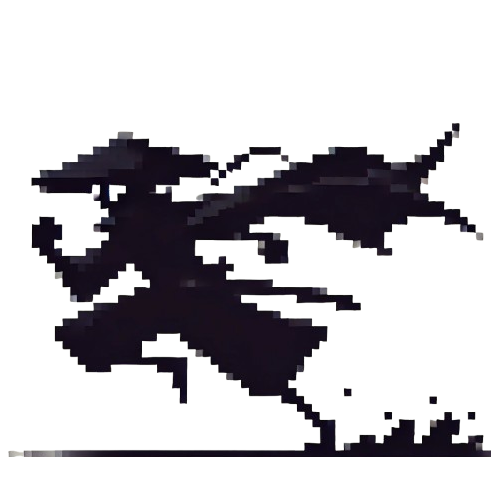
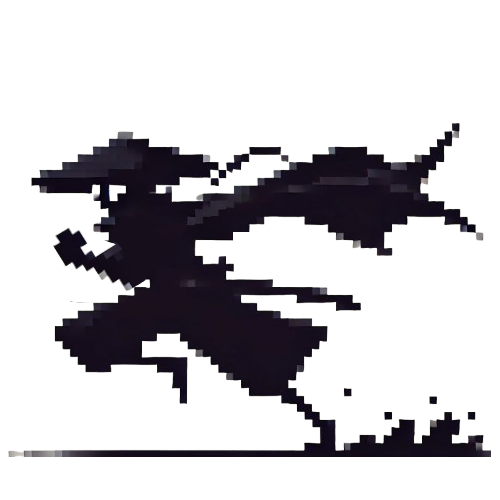
save point portail + transition des niveaux + amélioreation frame personnage 💯

Changed region(s): [[0.06, 0.42, 0.3, 0.63], [0.45, 0.45, 0.6, 0.54]]

diff --git a/ShadowTravelers/js/levels/level3.js b/ShadowTravelers/js/levels/level3.js
@@ -1,24 +1,81 @@
 import { BaseLevel } from './BaseLevel.js';
 import { Player } from '../entities/Player.js';
+import { Exit } from '../elements/Exit.js';
 
 export class Level3 extends BaseLevel {
     constructor(context, canvas) {
         super(context, canvas);
         this.player = new Player(canvas);
+        
+        this.levelTitle = "Niveau 3 - Le dernier voyage";
+    }
+
+    initialize() {
+        super.initialize();
+
+        // Créer la sortie à la fin du niveau
+        const floorY = this.canvas.height - this.floorHeight;
+        this.exit = new Exit(
+            this.levelWidth - 200,
+            floorY - 120,
+            80,
+            80
+        );
+        
+        // Ajouter des obstacles ou autres éléments spécifiques au niveau 3
+        this.obstacles.push(
+            { x: 1000, y: floorY - 130, width: 90, height: 130 },
+            { x: 2000, y: floorY - 160, width: 110, height: 160 },
+            { x: 3000, y: floorY - 140, width: 95, height: 140 }
+        );
     }
 
     update() {
-        this.player.update(this.keys, this.floorHeight);
+        super.update(); // Utilise la méthode de BaseLevel qui gère déjà la collision avec la sortie
     }
 
     draw() {
-        this.context.clearRect(0, 0, this.canvas.width, this.canvas.height);
-
-        // Dessiner le sol
-        this.context.fillStyle = 'black';
-        this.context.fillRect(0, this.canvas.height - this.floorHeight, this.canvas.width, this.floorHeight);
-
-        // Dessiner le joueur
-        this.player.draw(this.context);
+        // Appeler la méthode draw de la classe parente qui inclut maintenant l'affichage du titre
+        super.draw();
+        
+        // Ajouter tout rendu spécifique au niveau 3 ici si nécessaire
+    }
+    
+    onLevelComplete() {
+        console.log('Niveau 3 terminé ! Félicitations, vous avez terminé le jeu !');
+        
+        // Ajouter un effet visuel de "fondu" avant la transition
+        const canvas = this.canvas;
+        const context = this.context;
+        
+        // Créer un effet de fondu en noir
+        let opacity = 0;
+        const fadeEffect = setInterval(() => {
+            opacity += 0.05;
+            context.fillStyle = `rgba(0, 0, 0, ${opacity})`;
+            context.fillRect(0, 0, canvas.width, canvas.height);
+            
+            // Ajouter un message de félicitations
+            if (opacity >= 0.7) {
+                context.fillStyle = "white";
+                context.font = "bold 32px Arial";
+                context.textAlign = "center";
+                context.fillText("Félicitations !", canvas.width/2, canvas.height/2 - 30);
+                context.font = "24px Arial";
+                context.fillText("Vous avez terminé Shadow Travelers", canvas.width/2, canvas.height/2 + 20);
+            }
+            
+            if (opacity >= 1) {
+                clearInterval(fadeEffect);
+                
+                // Réinitialiser le niveau sélectionné
+                localStorage.setItem('selectedLevel', 1);
+                
+                // Rediriger vers l'écran d'accueil après un délai
+                setTimeout(() => {
+                    window.location.href = 'index.html';
+                }, 3000); // Attendre 3 secondes pour que le joueur puisse lire le message
+            }
+        }, 50);
     }
 } 

diff --git a/ShadowTravelers/js/levels/BaseLevel.js b/ShadowTravelers/js/levels/BaseLevel.js
@@ -34,6 +34,15 @@ export class BaseLevel {
 
         this.isRunning = true;
         
+        // Propriétés pour l'animation du titre
+        this.levelTitle = "Niveau";
+        this.titleY = this.canvas.height / 2; // Position initiale au centre
+        this.targetTitleY = 50; // Position finale en haut
+        this.titleAnimationDone = false;
+        this.titleAnimationStarted = false;
+        this.titleAnimationSpeed = 2; // Vitesse de l'animation
+        this.titleDisplayTime = 0; // Compteur pour retarder le début de l'animation
+        
         this.bindEvents();
     }
 
@@ -97,6 +106,9 @@ export class BaseLevel {
         if (this.player) {
             this.player.draw(this.context);
         }
+
+        // Dessiner le titre du niveau
+        this.drawLevelTitle();
     }
 
     drawGround() {
@@ -181,8 +193,6 @@ export class BaseLevel {
 
     initialize() {
         this.floorY = this.canvas.height - this.floorHeight;
-        console.log("BaseLevel initialize - Canvas:", this.canvas.width, "x", this.canvas.height);
-        console.log("Calculé floorY =", this.floorY);
         
         // Créer le joueur si nécessaire
         if (!this.player) {
@@ -199,7 +209,6 @@ export class BaseLevel {
     handleResize() {
         // Recalculer floorY
         this.floorY = this.canvas.height - this.floorHeight;
-        console.log("Resize - nouveau floorY =", this.floorY);
         
         this.updateElementPositions();
         
@@ -220,5 +229,36 @@ export class BaseLevel {
             // Maintenir la position de la sortie relative à la taille du canvas
             this.exit.y = this.canvas.height - this.floorHeight - this.exit.height;
         }
+    }
+
+    drawLevelTitle() {
+        if (!this.titleAnimationStarted) {
+            this.titleDisplayTime++;
+            if (this.titleDisplayTime > 30) {
+                this.titleAnimationStarted = true;
+            }
+        }
+        
+        if (this.titleAnimationStarted && !this.titleAnimationDone) {
+            this.titleY -= this.titleAnimationSpeed;
+            
+            if (this.titleY <= this.targetTitleY) {
+                this.titleY = this.targetTitleY;
+                this.titleAnimationDone = true;
+            }
+        }
+        
+        this.context.save();
+        
+        const fontSize = this.titleAnimationDone ? 24 : 36;
+        this.context.font = `bold ${fontSize}px Arial`;
+        
+        const textWidth = this.context.measureText(this.levelTitle).width;
+        
+        this.context.fillStyle = 'black';
+        this.context.textAlign = 'center';
+        
+        this.context.fillText(this.levelTitle, this.canvas.width / 2, this.titleY);
+        this.context.restore();
     }
 } 

diff --git a/ShadowTravelers/js/levels/level2.js b/ShadowTravelers/js/levels/level2.js
@@ -1,24 +1,70 @@
 import { BaseLevel } from './BaseLevel.js';
 import { Player } from '../entities/Player.js';
+import { Exit } from '../elements/Exit.js';
 
 export class Level2 extends BaseLevel {
     constructor(context, canvas) {
         super(context, canvas);
         this.player = new Player(canvas);
+        
+        this.levelTitle = "Niveau 2 - Le passage obscur";
+    }
+
+    initialize() {
+        super.initialize();
+
+        // Créer la sortie à la fin du niveau
+        const floorY = this.canvas.height - this.floorHeight;
+        this.exit = new Exit(
+            this.levelWidth - 200,
+            floorY - 120,
+            80,
+            80
+        );
+        
+        // Ajouter des obstacles ou autres éléments spécifiques au niveau 2
+        this.obstacles.push(
+            { x: 1200, y: floorY - 120, width: 80, height: 120 },
+            { x: 2500, y: floorY - 150, width: 100, height: 150 }
+        );
     }
 
     update() {
-        this.player.update(this.keys, this.floorHeight);
+        super.update(); // Utilise la méthode de BaseLevel qui gère déjà la collision avec la sortie
     }
 
     draw() {
-        this.context.clearRect(0, 0, this.canvas.width, this.canvas.height);
-
-        // Dessiner le sol
-        this.context.fillStyle = 'black';
-        this.context.fillRect(0, this.canvas.height - this.floorHeight, this.canvas.width, this.floorHeight);
-
-        // Dessiner le joueur
-        this.player.draw(this.context);
+        // Appeler la méthode draw de la classe parente qui inclut maintenant l'affichage du titre
+        super.draw();
+        
+        // Ajouter tout rendu spécifique au niveau 2 ici si nécessaire
+    }
+    
+    onLevelComplete() {
+        console.log('Niveau 2 terminé ! Passage au niveau suivant...');
+        
+        // Ajouter un effet visuel de "fondu" avant la transition
+        const canvas = this.canvas;
+        const context = this.context;
+        
+        // Créer un effet de fondu en noir
+        let opacity = 0;
+        const fadeEffect = setInterval(() => {
+            opacity += 0.05;
+            context.fillStyle = `rgba(0, 0, 0, ${opacity})`;
+            context.fillRect(0, 0, canvas.width, canvas.height);
+            
+            if (opacity >= 1) {
+                clearInterval(fadeEffect);
+                
+                // Stocker le niveau suivant dans localStorage
+                localStorage.setItem('selectedLevel', 3);
+                
+                // Rediriger vers le niveau 3
+                setTimeout(() => {
+                    window.location.href = 'level3.html';
+                }, 500);
+            }
+        }, 50);
     }
 } 

diff --git a/ShadowTravelers/js/elements/Exit.js b/ShadowTravelers/js/elements/Exit.js
@@ -1,10 +1,25 @@
 export class Exit {
-    constructor(x, y, width = 50, height = 50) {
+    constructor(x, y, width = 80, height = 80) {
         this.x = x;
         this.y = y;
         this.width = width;
         this.height = height;
         this.isActive = true;
+        
+        // Chargement des frames du portail
+        this.frames = [];
+        this.totalFrames = 19;
+        this.currentFrame = 0;
+        this.frameDelay = 5; // Vitesse d'animation (plus petit = plus rapide)
+        this.frameCounter = 0;
+        
+        // Préchargement de toutes les frames
+        for (let i = 1; i <= this.totalFrames; i++) {
+            const frameNumber = i.toString().padStart(2, '0'); // Format 01, 02, etc.
+            const frame = new Image();
+            frame.src = `./assets/portal/shadow/frame-${frameNumber}.gif`;
+            this.frames.push(frame);
+        }
     }
 
     draw(context, cameraX) {
@@ -12,7 +27,30 @@ export class Exit {
         
         const adjustedX = this.x - cameraX;
         
-        context.fillStyle = '#0095ff';
-        context.fillRect(adjustedX, this.y, this.width, this.height);
+        // Animation du portail
+        this.frameCounter++;
+        
+        // Changement de frame selon le délai
+        if (this.frameCounter >= this.frameDelay) {
+            this.frameCounter = 0;
+            this.currentFrame = (this.currentFrame + 1) % this.totalFrames;
+        }
+        
+        // Affichage de la frame courante
+        const currentImg = this.frames[this.currentFrame];
+        
+        if (currentImg && currentImg.complete) {
+            context.drawImage(
+                currentImg,
+                adjustedX,
+                this.y,
+                this.width,
+                this.height
+            );
+        } else {
+            // Fallback en cas de non-chargement de l'image
+            context.fillStyle = '#0095ff';
+            context.fillRect(adjustedX, this.y, this.width, this.height);
+        }
     }
 }

diff --git a/ShadowTravelers/js/levels/level1.js b/ShadowTravelers/js/levels/level1.js
@@ -10,6 +10,8 @@ export class Level1 extends BaseLevel {
         this.ghosts = [];
         this.jumpingObstacles = [];
         this.directionalObstacles = [];
+        
+        this.levelTitle = "Niveau 1 - L'éveil des ombres";
     }
 
     initialize() {
@@ -40,12 +42,7 @@ export class Level1 extends BaseLevel {
             new Ghost(this.levelWidth - 400, ghostY, "Tu as atteint la fin de ce passage obscur... *murmure* Si tu continues ta quête, arme-toi de courage. Le véritable voyage ne fait que commencer...")
         );
 
-        this.exit = new Exit(
-            this.levelWidth - 200,
-            floorY - 100,
-            50,
-            100
-        );
+        this.exit = new Exit(this.levelWidth - 200, floorY - 100,80, 80);
     }
 
     update() {
@@ -117,5 +114,28 @@ export class Level1 extends BaseLevel {
 
     onLevelComplete() {
         console.log('Niveau 1 terminé ! Passage au niveau suivant...');
+        
+        // Ajouter un effet visuel de "fondu" avant la transition
+        const canvas = this.canvas;
+        const context = this.context;
+        
+        let opacity = 0;
+        const fadeEffect = setInterval(() => {
+            opacity += 0.05;
+            context.fillStyle = `rgba(0, 0, 0, ${opacity})`;
+            context.fillRect(0, 0, canvas.width, canvas.height);
+            
+            if (opacity >= 1) {
+                clearInterval(fadeEffect);
+                
+                // Stocker le niveau suivant dans localStorage
+                localStorage.setItem('selectedLevel', 2);
+                
+                // Rediriger vers le niveau 2
+                setTimeout(() => {
+                    window.location.href = 'level2.html';
+                }, 500);
+            }
+        }, 50);
     }
 }

diff --git a/ShadowTravelers/js/script.js b/ShadowTravelers/js/script.js
@@ -19,9 +19,7 @@ function startGame(levelId) {
         // Créer le niveau avec le canvas correctement dimensionné
         const canvas = document.getElementById('myCanvas');
         const context = canvas.getContext('2d');
-        
-        console.log("Starting game with canvas dimensions:", canvas.width, "x", canvas.height);
-        
+                
         // Créer le niveau approprié
         let level;
         switch(levelId) {
@@ -54,7 +52,6 @@ function resizeCanvas() {
     if (canvas) {
         canvas.width = window.innerWidth;
         canvas.height = window.innerHeight;
-        console.log("Canvas redimensionné à:", canvas.width, "x", canvas.height);
         return canvas;
     }
     return null;
@@ -88,14 +85,11 @@ function initializeLevel() {
         
         // Vérifier que le canvas a bien les bonnes dimensions
         if (canvas.width <= 300 || canvas.height <= 150) {
-            console.warn("Canvas pas correctement redimensionné, réessai dans 100ms...");
             setTimeout(initializeLevel, 100);
             isInitializing = false;
             return;
         }
-        
-        console.log("Initialisation avec canvas:", canvas.width, "x", canvas.height);
-        
+                
         // Créer le niveau approprié
         const url = window.location.href;
         if (url.includes('level1')) {
